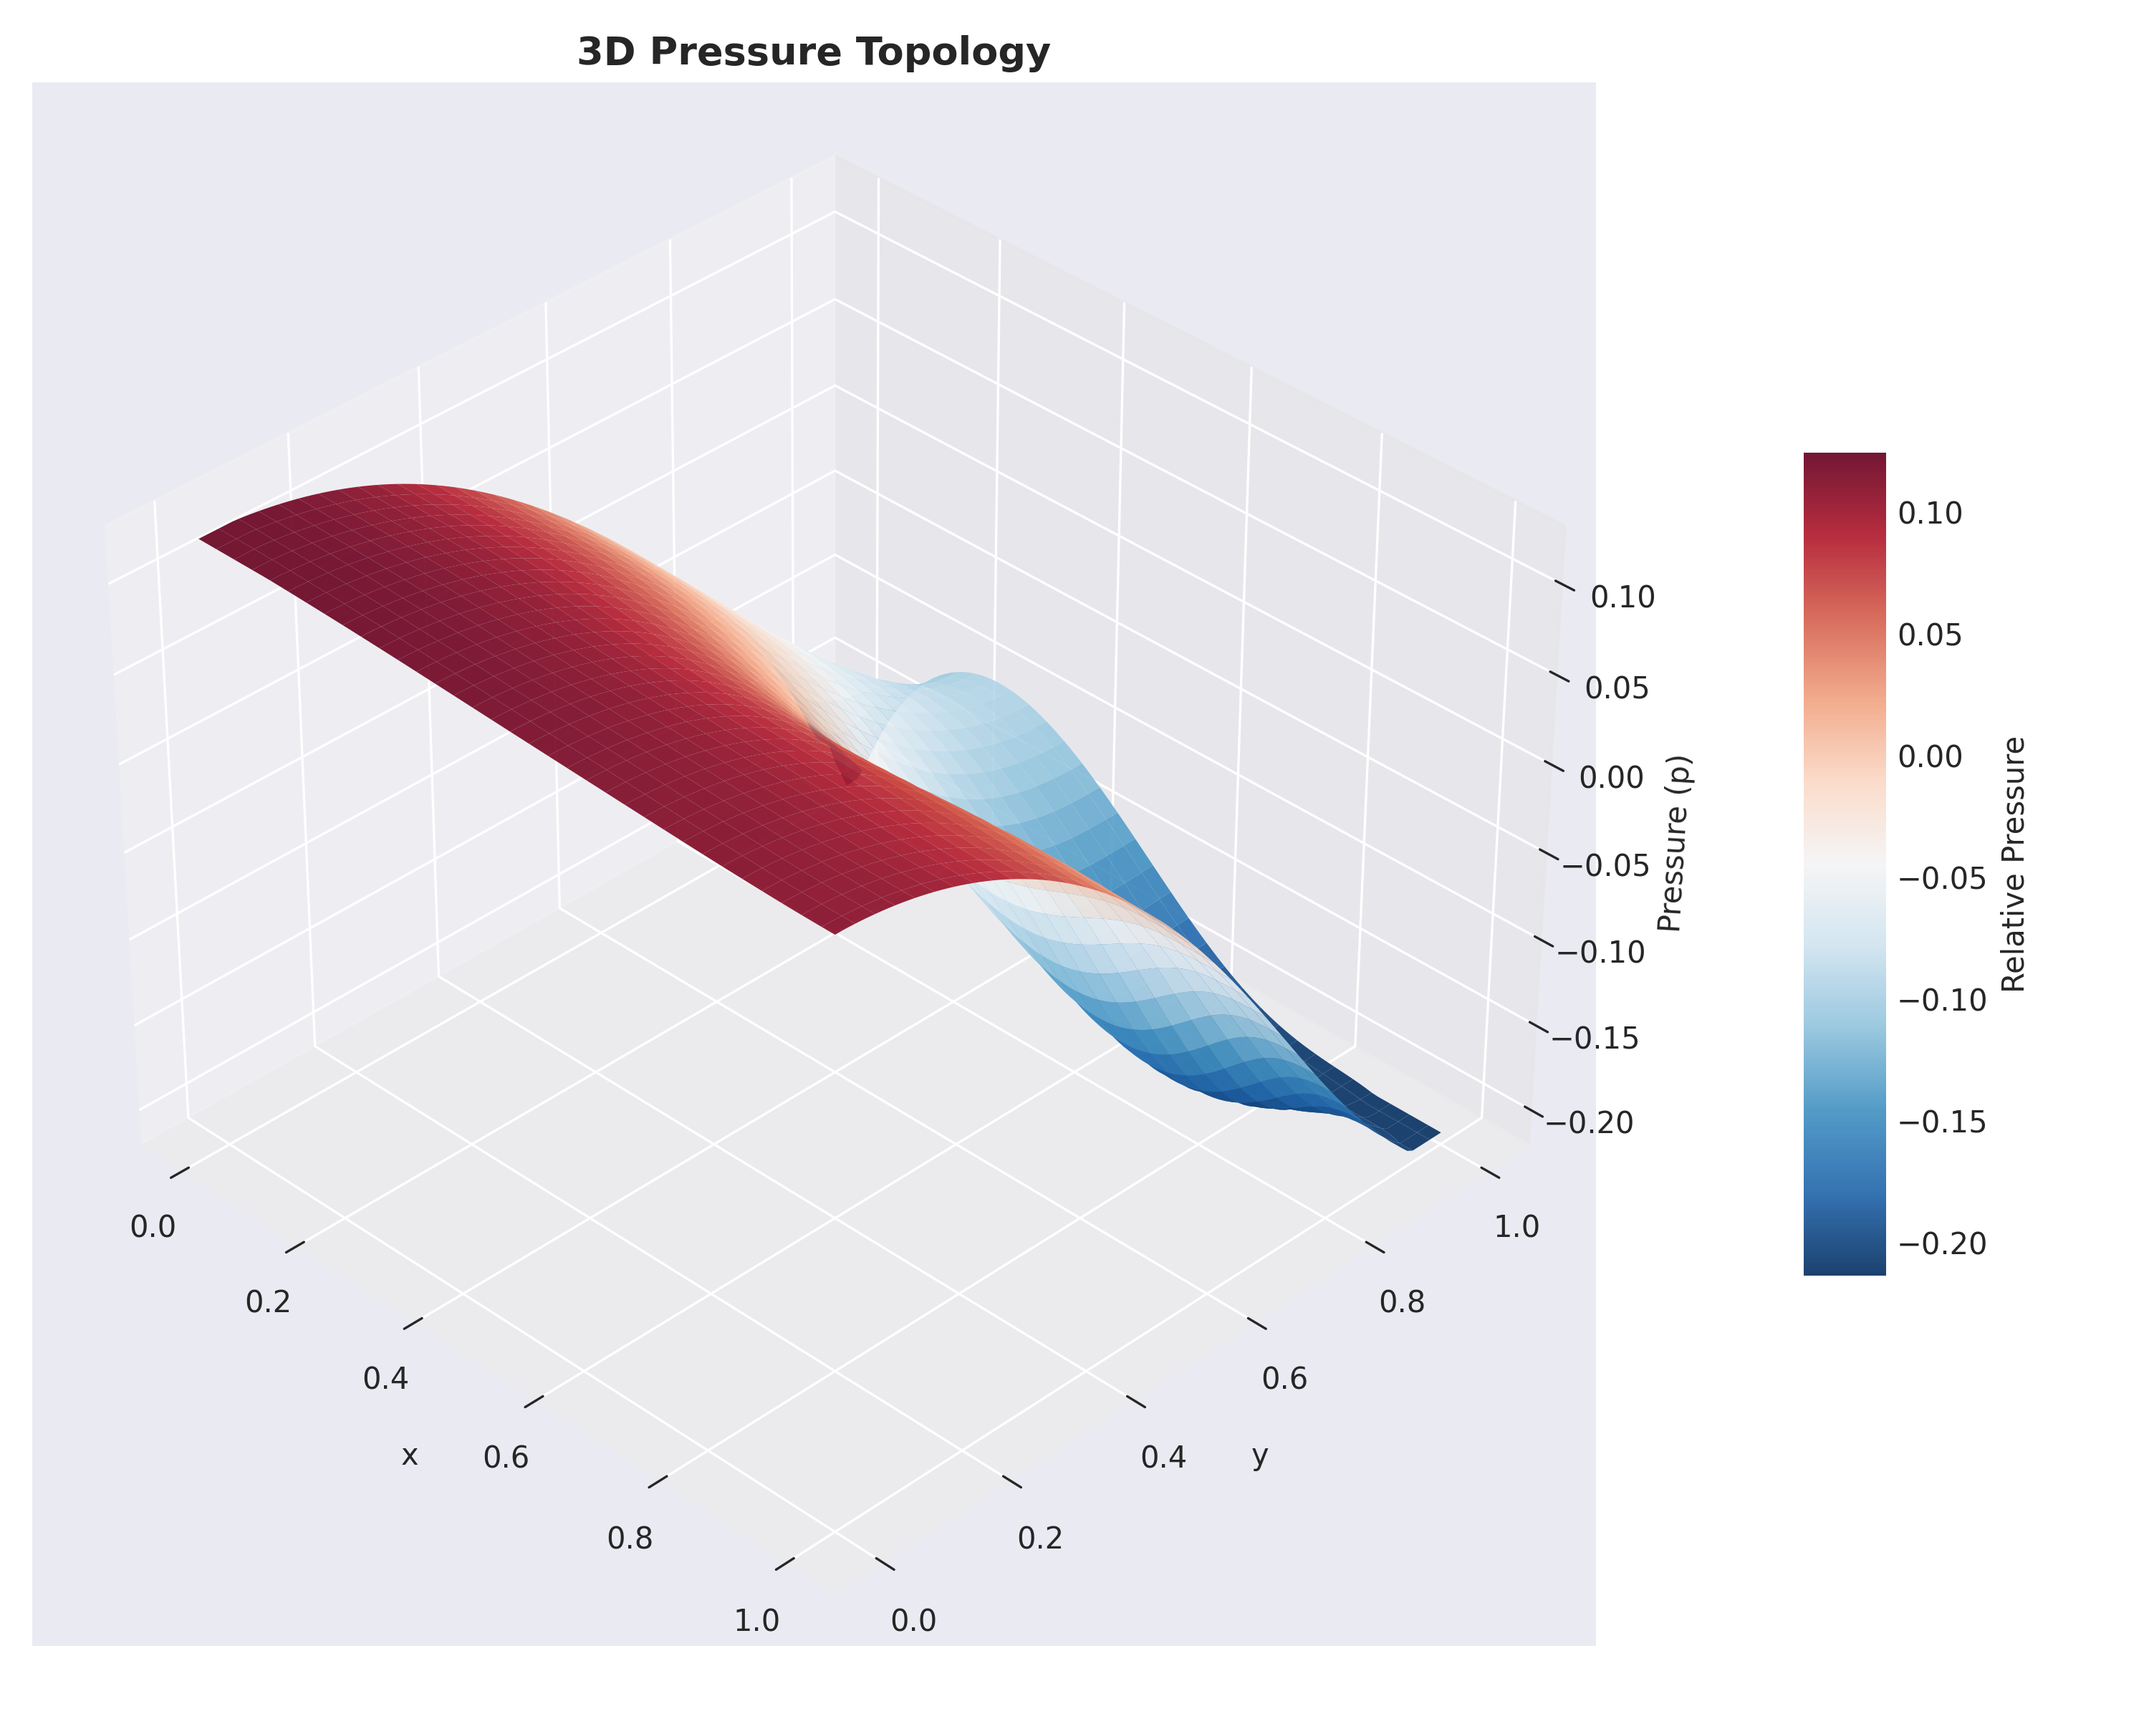
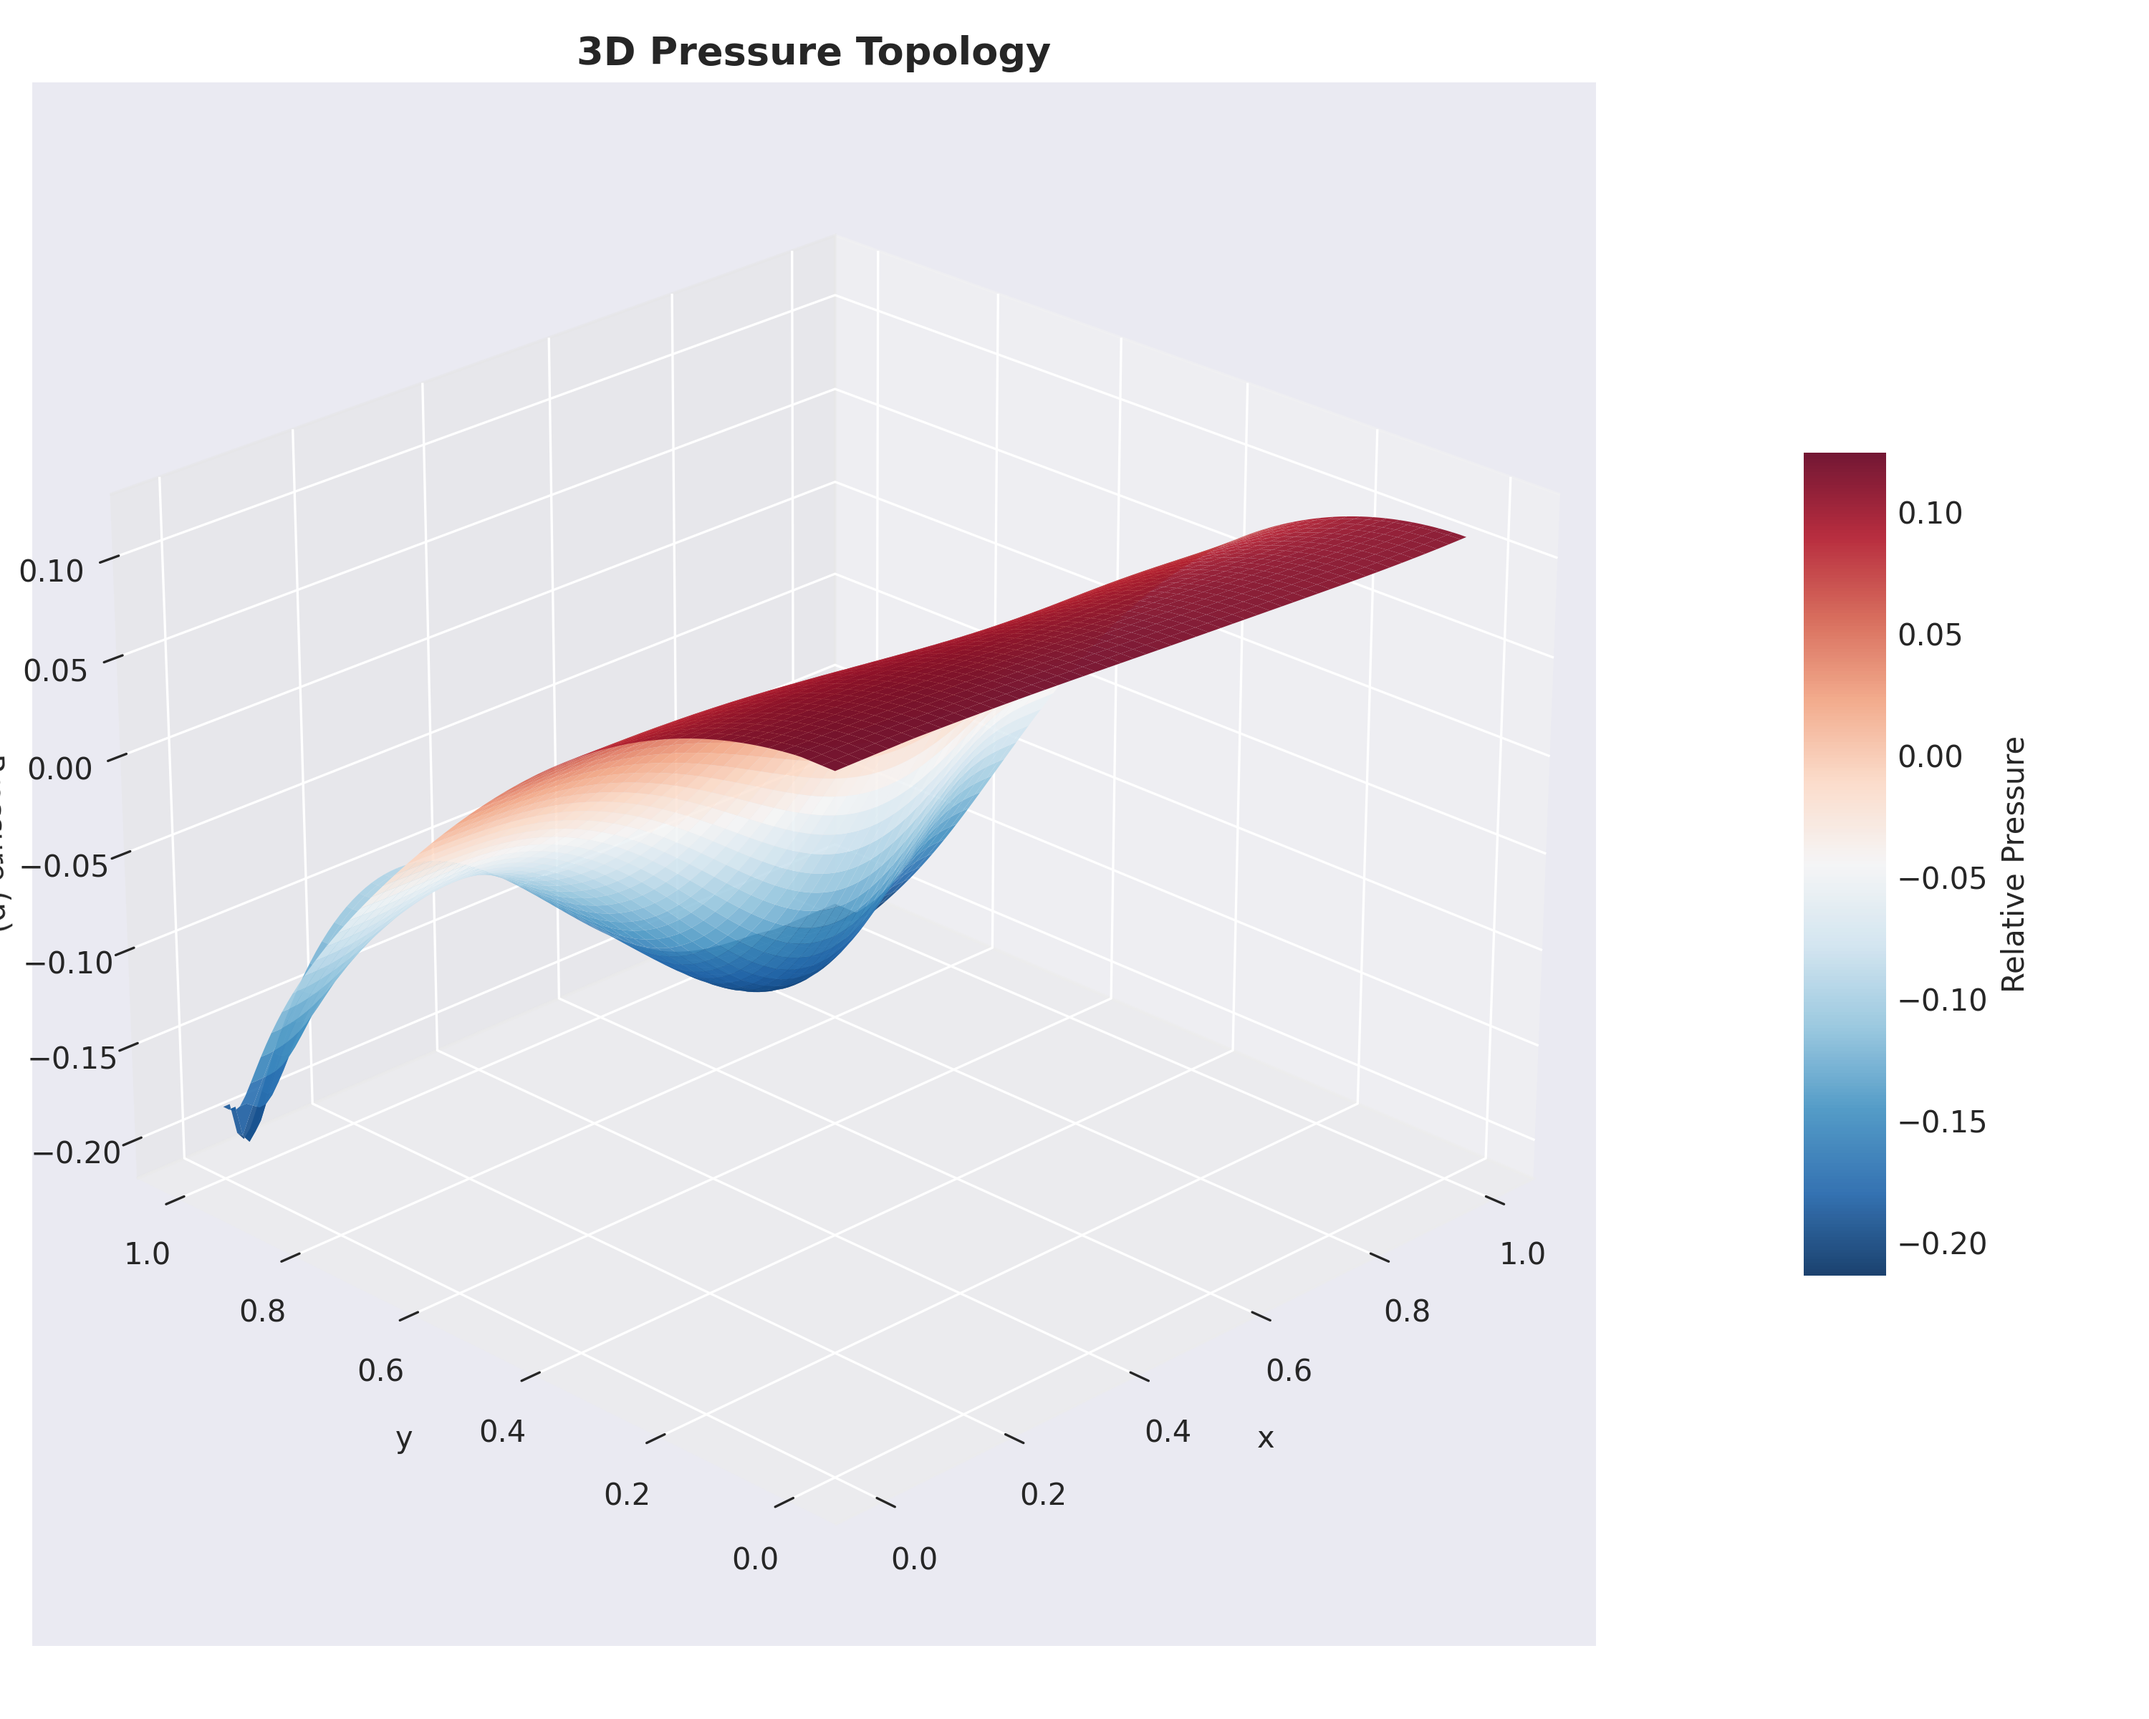
Made 3d Surface better

diff --git a/postprocess.py b/postprocess.py
@@ -1,12 +1,10 @@
-#!/usr/bin/env python3
 """
 Post-processing script for Lid-Driven Cavity simulation
-Generates all required plots as per assignment requirements
 """
 
+from matplotlib.colors import LightSource
 import numpy as np
 import matplotlib.pyplot as plt
-from matplotlib import cm
 import os
 
 # Set style
@@ -114,7 +112,7 @@ def plot_streamlines(output_dir="results"):
 
     plt.tight_layout()
     plt.savefig(f"{output_dir}/streamlines.png", dpi=300, bbox_inches="tight")
-    print("✓ Saved: streamlines.png")
+    print("Saved: streamlines.png")
     plt.close()
 
 
@@ -138,7 +136,7 @@ def plot_vorticity(output_dir="results"):
 
     plt.tight_layout()
     plt.savefig(f"{output_dir}/vorticity.png", dpi=300, bbox_inches="tight")
-    print("✓ Saved: vorticity.png")
+    print("Saved: vorticity.png")
     plt.close()
 
 
@@ -158,7 +156,6 @@ def plot_pressure(output_dir="results"):
 
     levels = np.linspace(np.min(p), np.max(p), 30)
 
-    # 4. Use a diverging colormap (Red-Blue reversed)
     cf = ax.contourf(X, Y, p, levels=levels, cmap="viridis", extend="both")
     cbar = plt.colorbar(cf, ax=ax)
     cbar.set_label("Pressure (p)", rotation=270, labelpad=20)
@@ -173,7 +170,7 @@ def plot_pressure(output_dir="results"):
 
     plt.tight_layout()
     plt.savefig(f"{output_dir}/pressure.png", dpi=300, bbox_inches="tight")
-    print("✓ Saved: pressure.png")
+    print("Saved: pressure.png")
     plt.close()
 
 
@@ -181,16 +178,27 @@ def plot_pressure_surface(output_dir="results"):
     """Advanced Plot: 3D Surface Topology of the Pressure Field"""
     X, Y, p = read_field_data(f"{output_dir}/p.dat")
 
-    # Optional: Clip the absolute most extreme 1% so the spikes don't dwarf the whole plot
+    # Clip the absolute most extreme so the spikes don't dwarf the whole plot
     p_clipped = np.clip(p, np.percentile(p, 0.5), np.percentile(p, 99.5))
 
     fig = plt.figure(figsize=(10, 8))
-    # Note: Requires mpl_toolkits.mplot3d (usually imported automatically in modern matplotlib)
     ax = fig.add_subplot(111, projection="3d")
+    ls = LightSource(azdeg=315, altdeg=45)
+    rgb = ls.shade(p_clipped, cmap=plt.cm.RdBu_r, vert_exag=0.1, blend_mode="soft")
 
     # Plot the surface
     surf = ax.plot_surface(
-        X, Y, p_clipped, cmap="RdBu_r", linewidth=0, antialiased=True, alpha=0.9
+        X,
+        Y,
+        p_clipped,
+        cmap="RdBu_r",
+        linewidth=0,
+        rstride=2,
+        cstride=2,
+        edgecolor="none",
+        antialiased=True,
+        alpha=0.9,
+        shade=False,
     )
 
     # Add a color bar
@@ -202,11 +210,11 @@ def plot_pressure_surface(output_dir="results"):
     ax.set_zlabel("Pressure (p)")
 
     # Adjust viewing angle for best look at the top corners
-    ax.view_init(elev=35, azim=-45)
+    ax.view_init(elev=25, azim=-135)
 
     plt.tight_layout()
     plt.savefig(f"{output_dir}/pressure_3d_surface.png", dpi=300)
-    print("✓ Saved: pressure_3d_surface.png")
+    print("Saved: pressure_3d_surface.png")
     plt.close()
 
 
@@ -227,7 +235,7 @@ def plot_u_velocity_centerline(output_dir="results"):
     # Plot current simulation
     ax.plot(u, y, "b-", linewidth=2, label="Current Simulation")
 
-    # Plot Ghia data if available
+    # Plot Ghia data
     if has_ghia:
         ax.plot(
             ghia["u"],
@@ -251,7 +259,7 @@ def plot_u_velocity_centerline(output_dir="results"):
 
     plt.tight_layout()
     plt.savefig(f"{output_dir}/u_velocity_centerline.png", dpi=300, bbox_inches="tight")
-    print("✓ Saved: u_velocity_centerline.png")
+    print("Saved: u_velocity_centerline.png")
     plt.close()
 
 
@@ -272,7 +280,7 @@ def plot_v_velocity_centerline(output_dir="results"):
     # Plot current simulation
     ax.plot(x, v, "b-", linewidth=2, label="Current Simulation")
 
-    # Plot Ghia data if available
+    # Plot Ghia data
     if has_ghia:
         ax.plot(
             ghia["x_v"],
@@ -296,7 +304,7 @@ def plot_v_velocity_centerline(output_dir="results"):
 
     plt.tight_layout()
     plt.savefig(f"{output_dir}/v_velocity_centerline.png", dpi=300, bbox_inches="tight")
-    print("✓ Saved: v_velocity_centerline.png")
+    print("Saved: v_velocity_centerline.png")
     plt.close()
 
 
@@ -330,7 +338,7 @@ def plot_velocity_vectors(output_dir="results"):
 
     plt.tight_layout()
     plt.savefig(f"{output_dir}/velocity_field.png", dpi=300, bbox_inches="tight")
-    print("✓ Saved: velocity_field.png")
+    print("Saved: velocity_field.png")
     plt.close()
 
 
